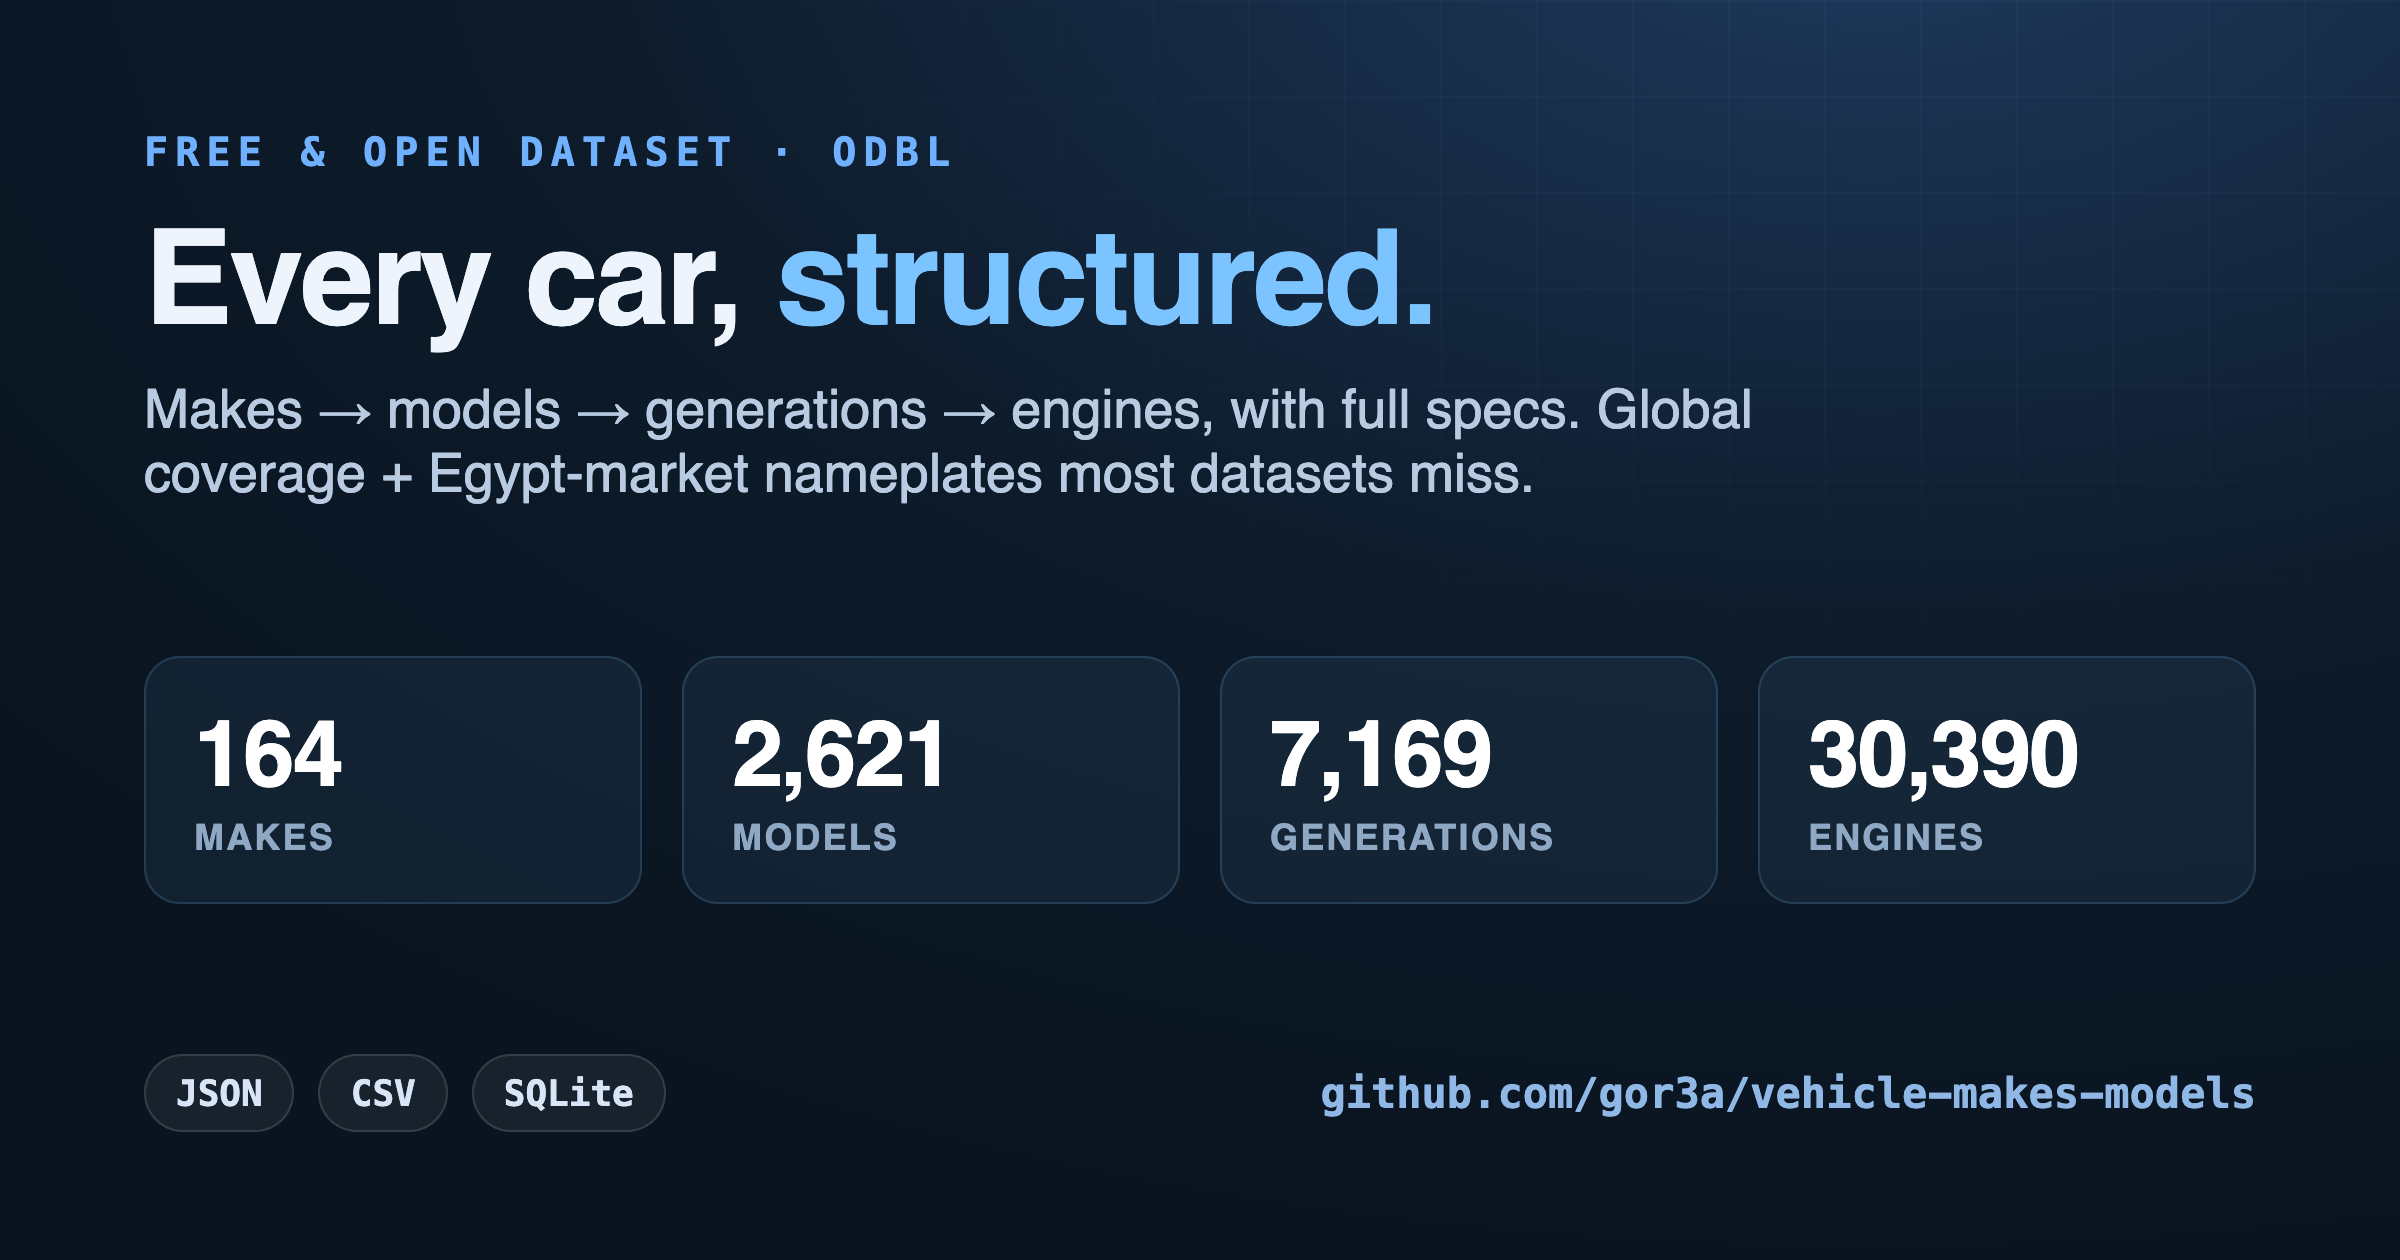
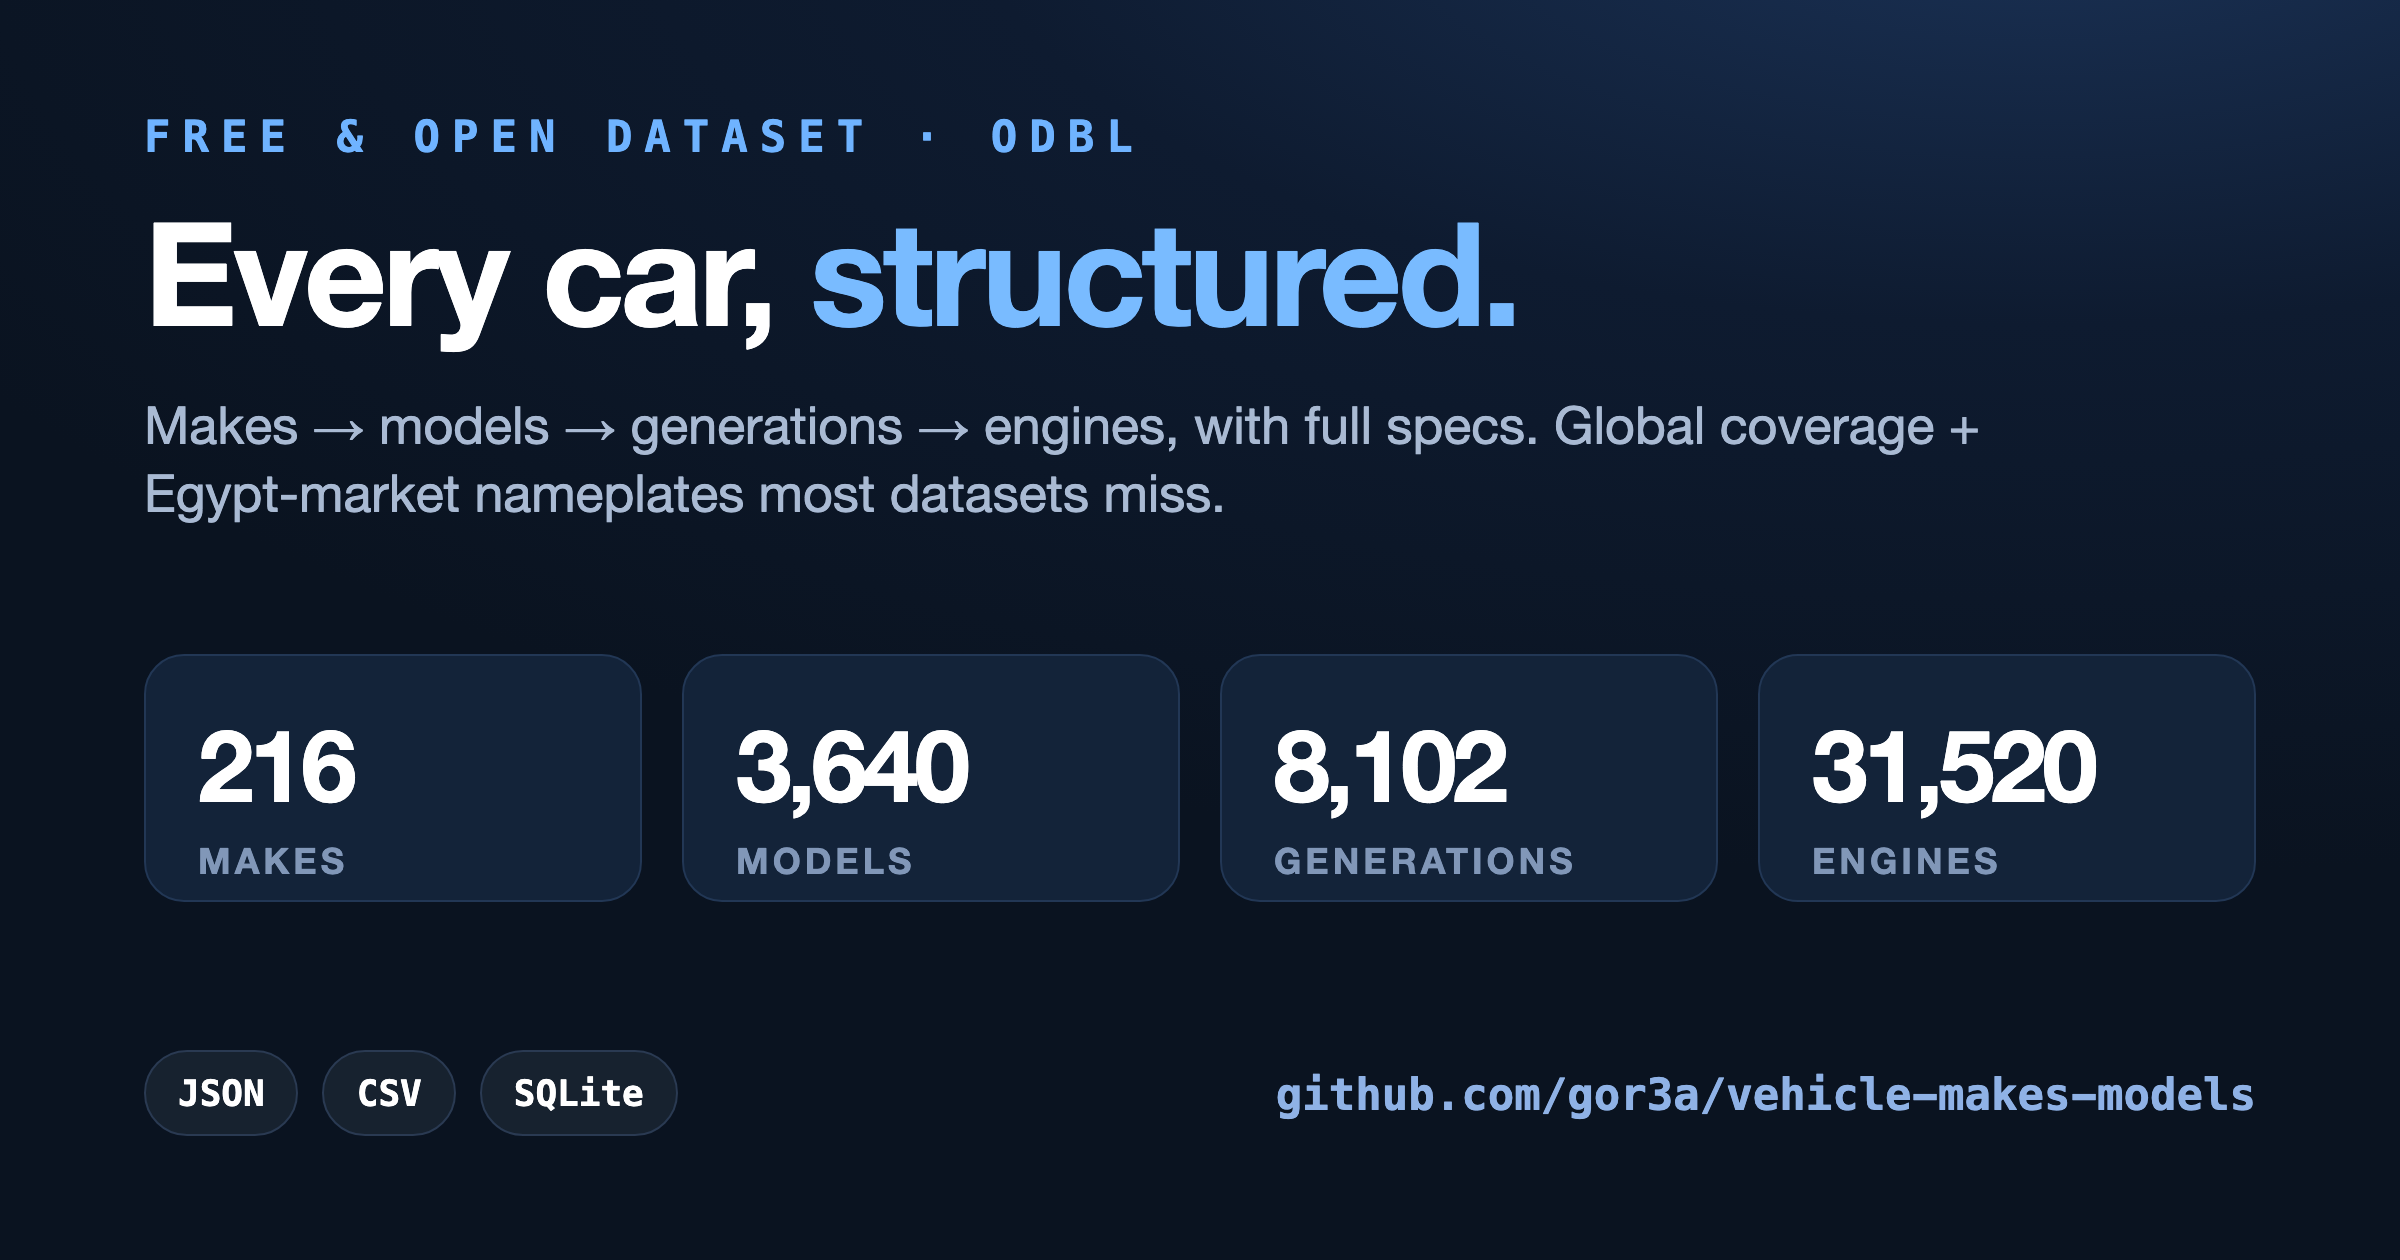
docs: update hero card to v1.0.3 counts

diff --git a/README.md b/README.md
@@ -1,6 +1,6 @@
 # vehicle-makes-models
 
-![Free & open dataset of car makes, models, generations, and engine specs — 164 makes, 2,621 models, 7,169 generations, 30,390 engines. JSON, CSV, SQLite. ODbL.](docs/announcement-card.png)
+![Free & open dataset of car makes, models, generations, and engine specs — 216 makes, 3,640 models, 8,102 generations, 31,520 engines. JSON, CSV, SQLite. ODbL.](docs/announcement-card.png)
 
 A free, open dataset of car **makes**, **models**, **generations**, and **engine specs** —
 global coverage with extra Egypt-market nameplates (e.g. Speranza, El Nasr) that
